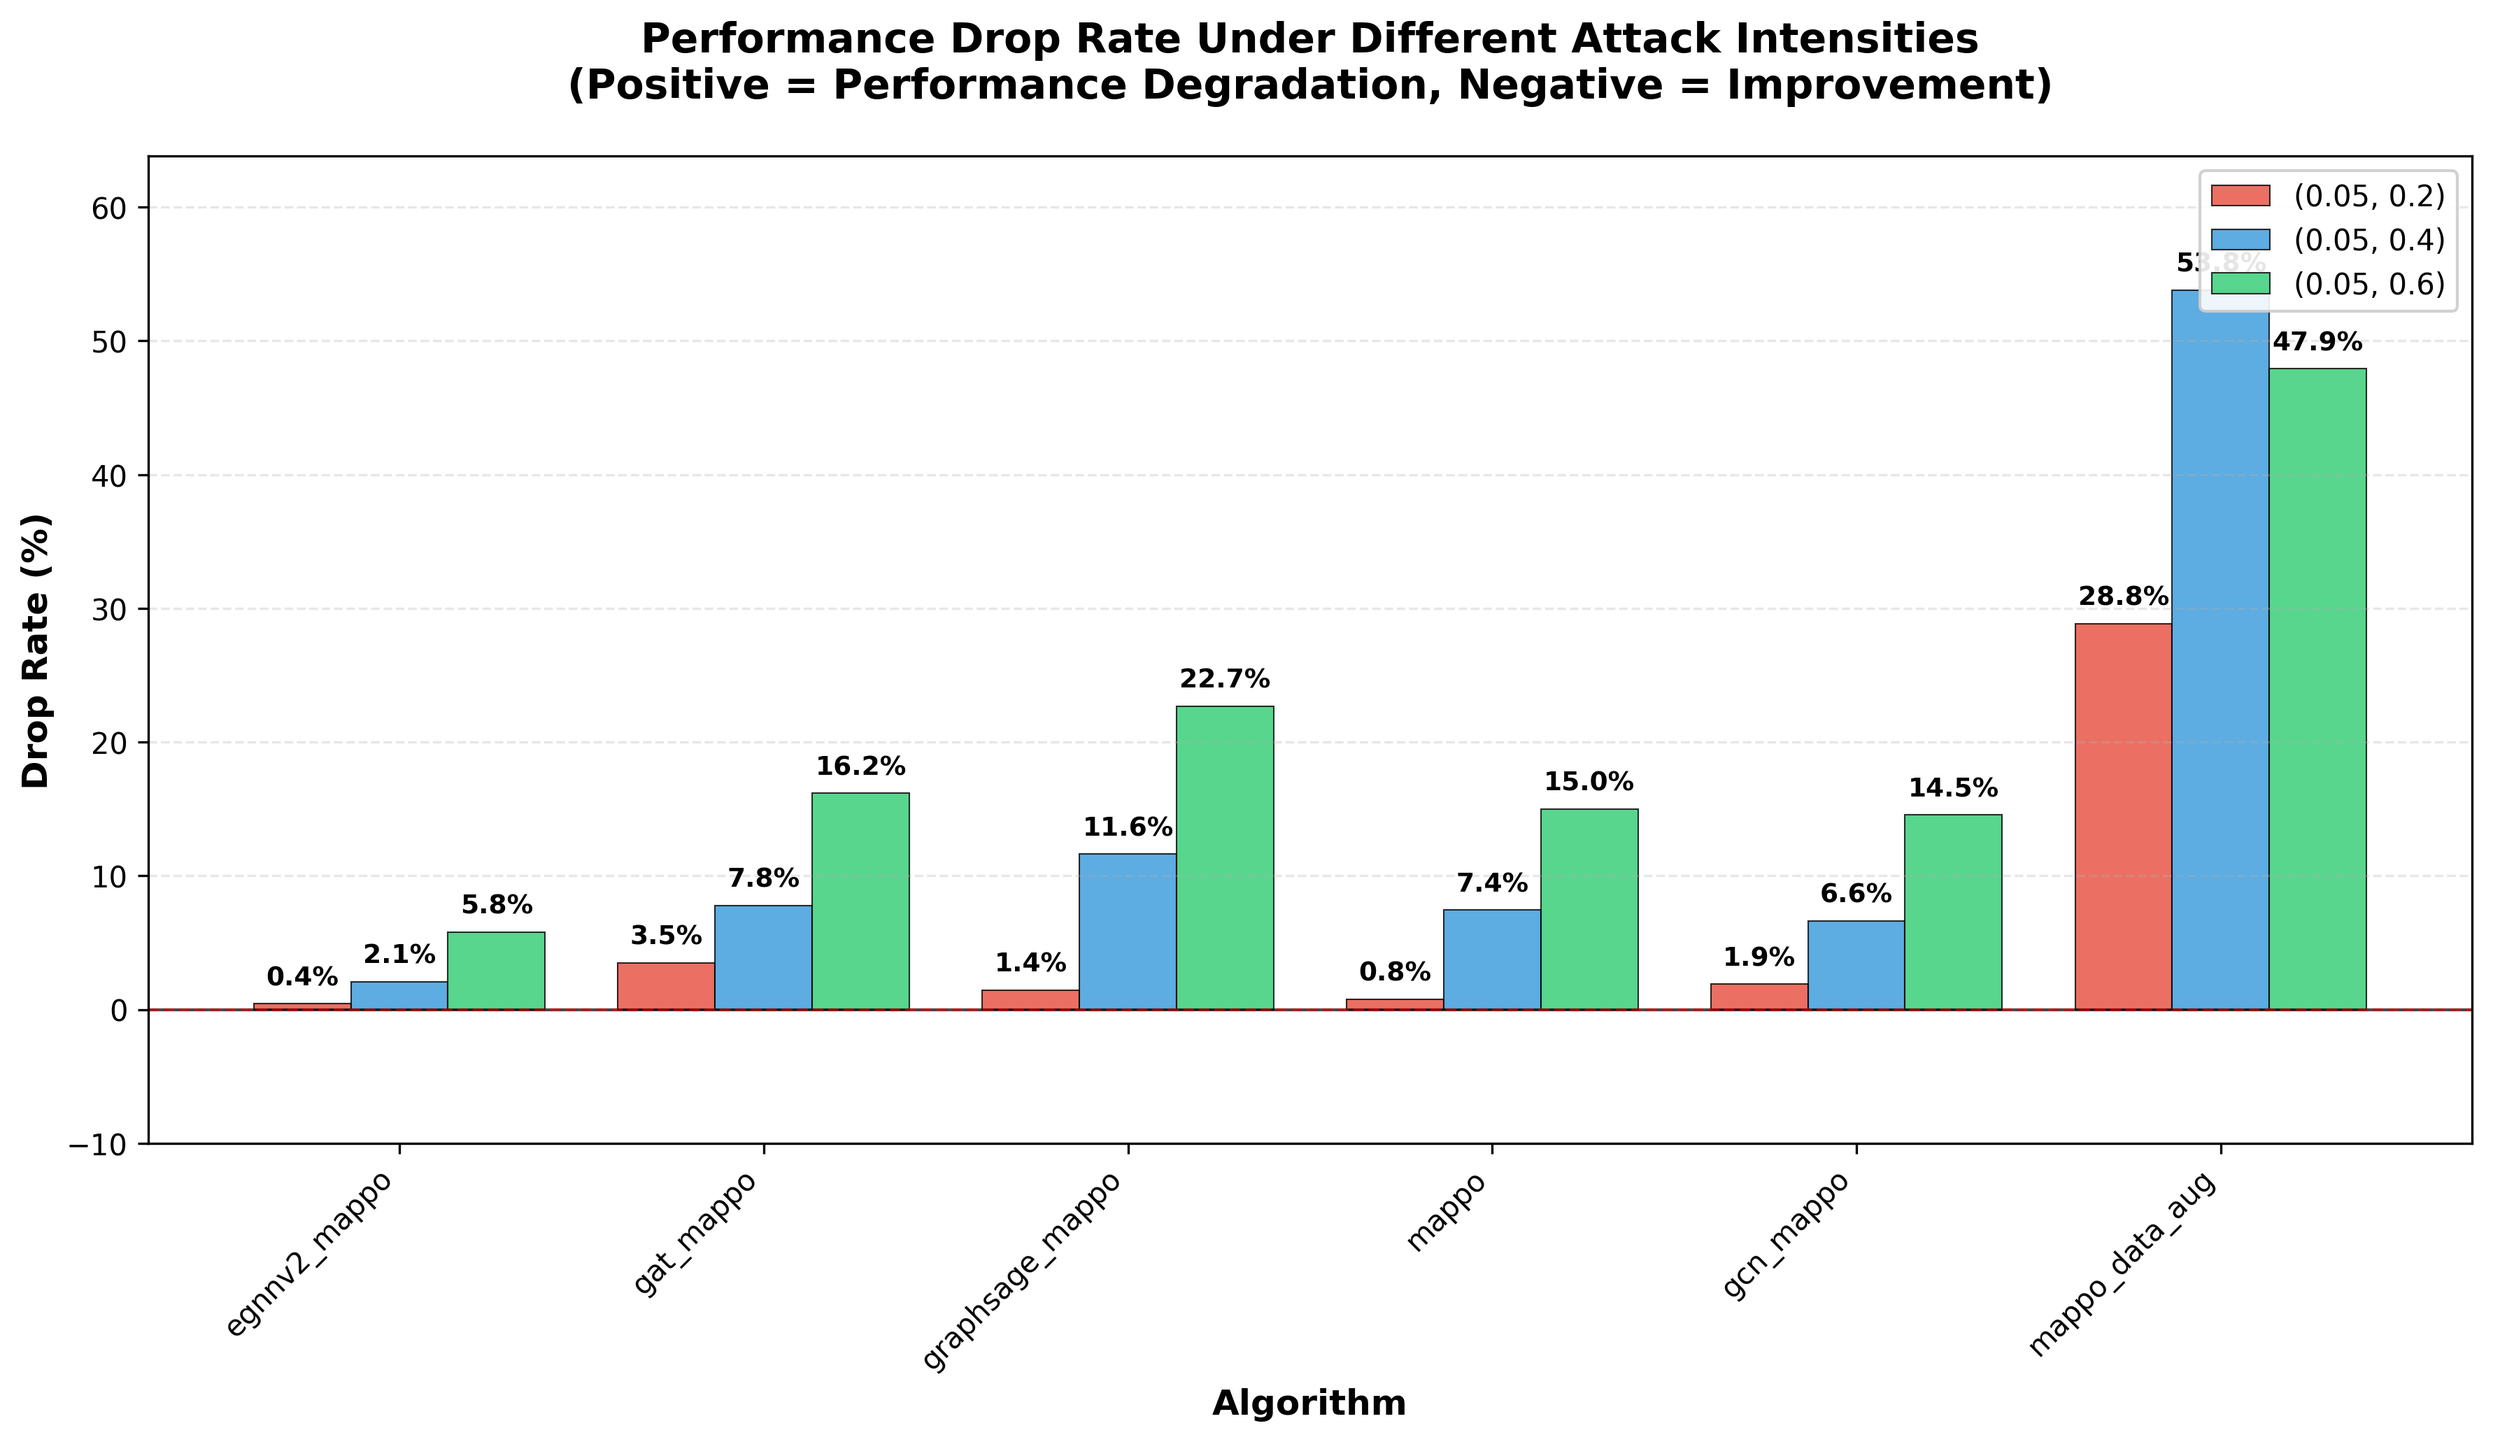
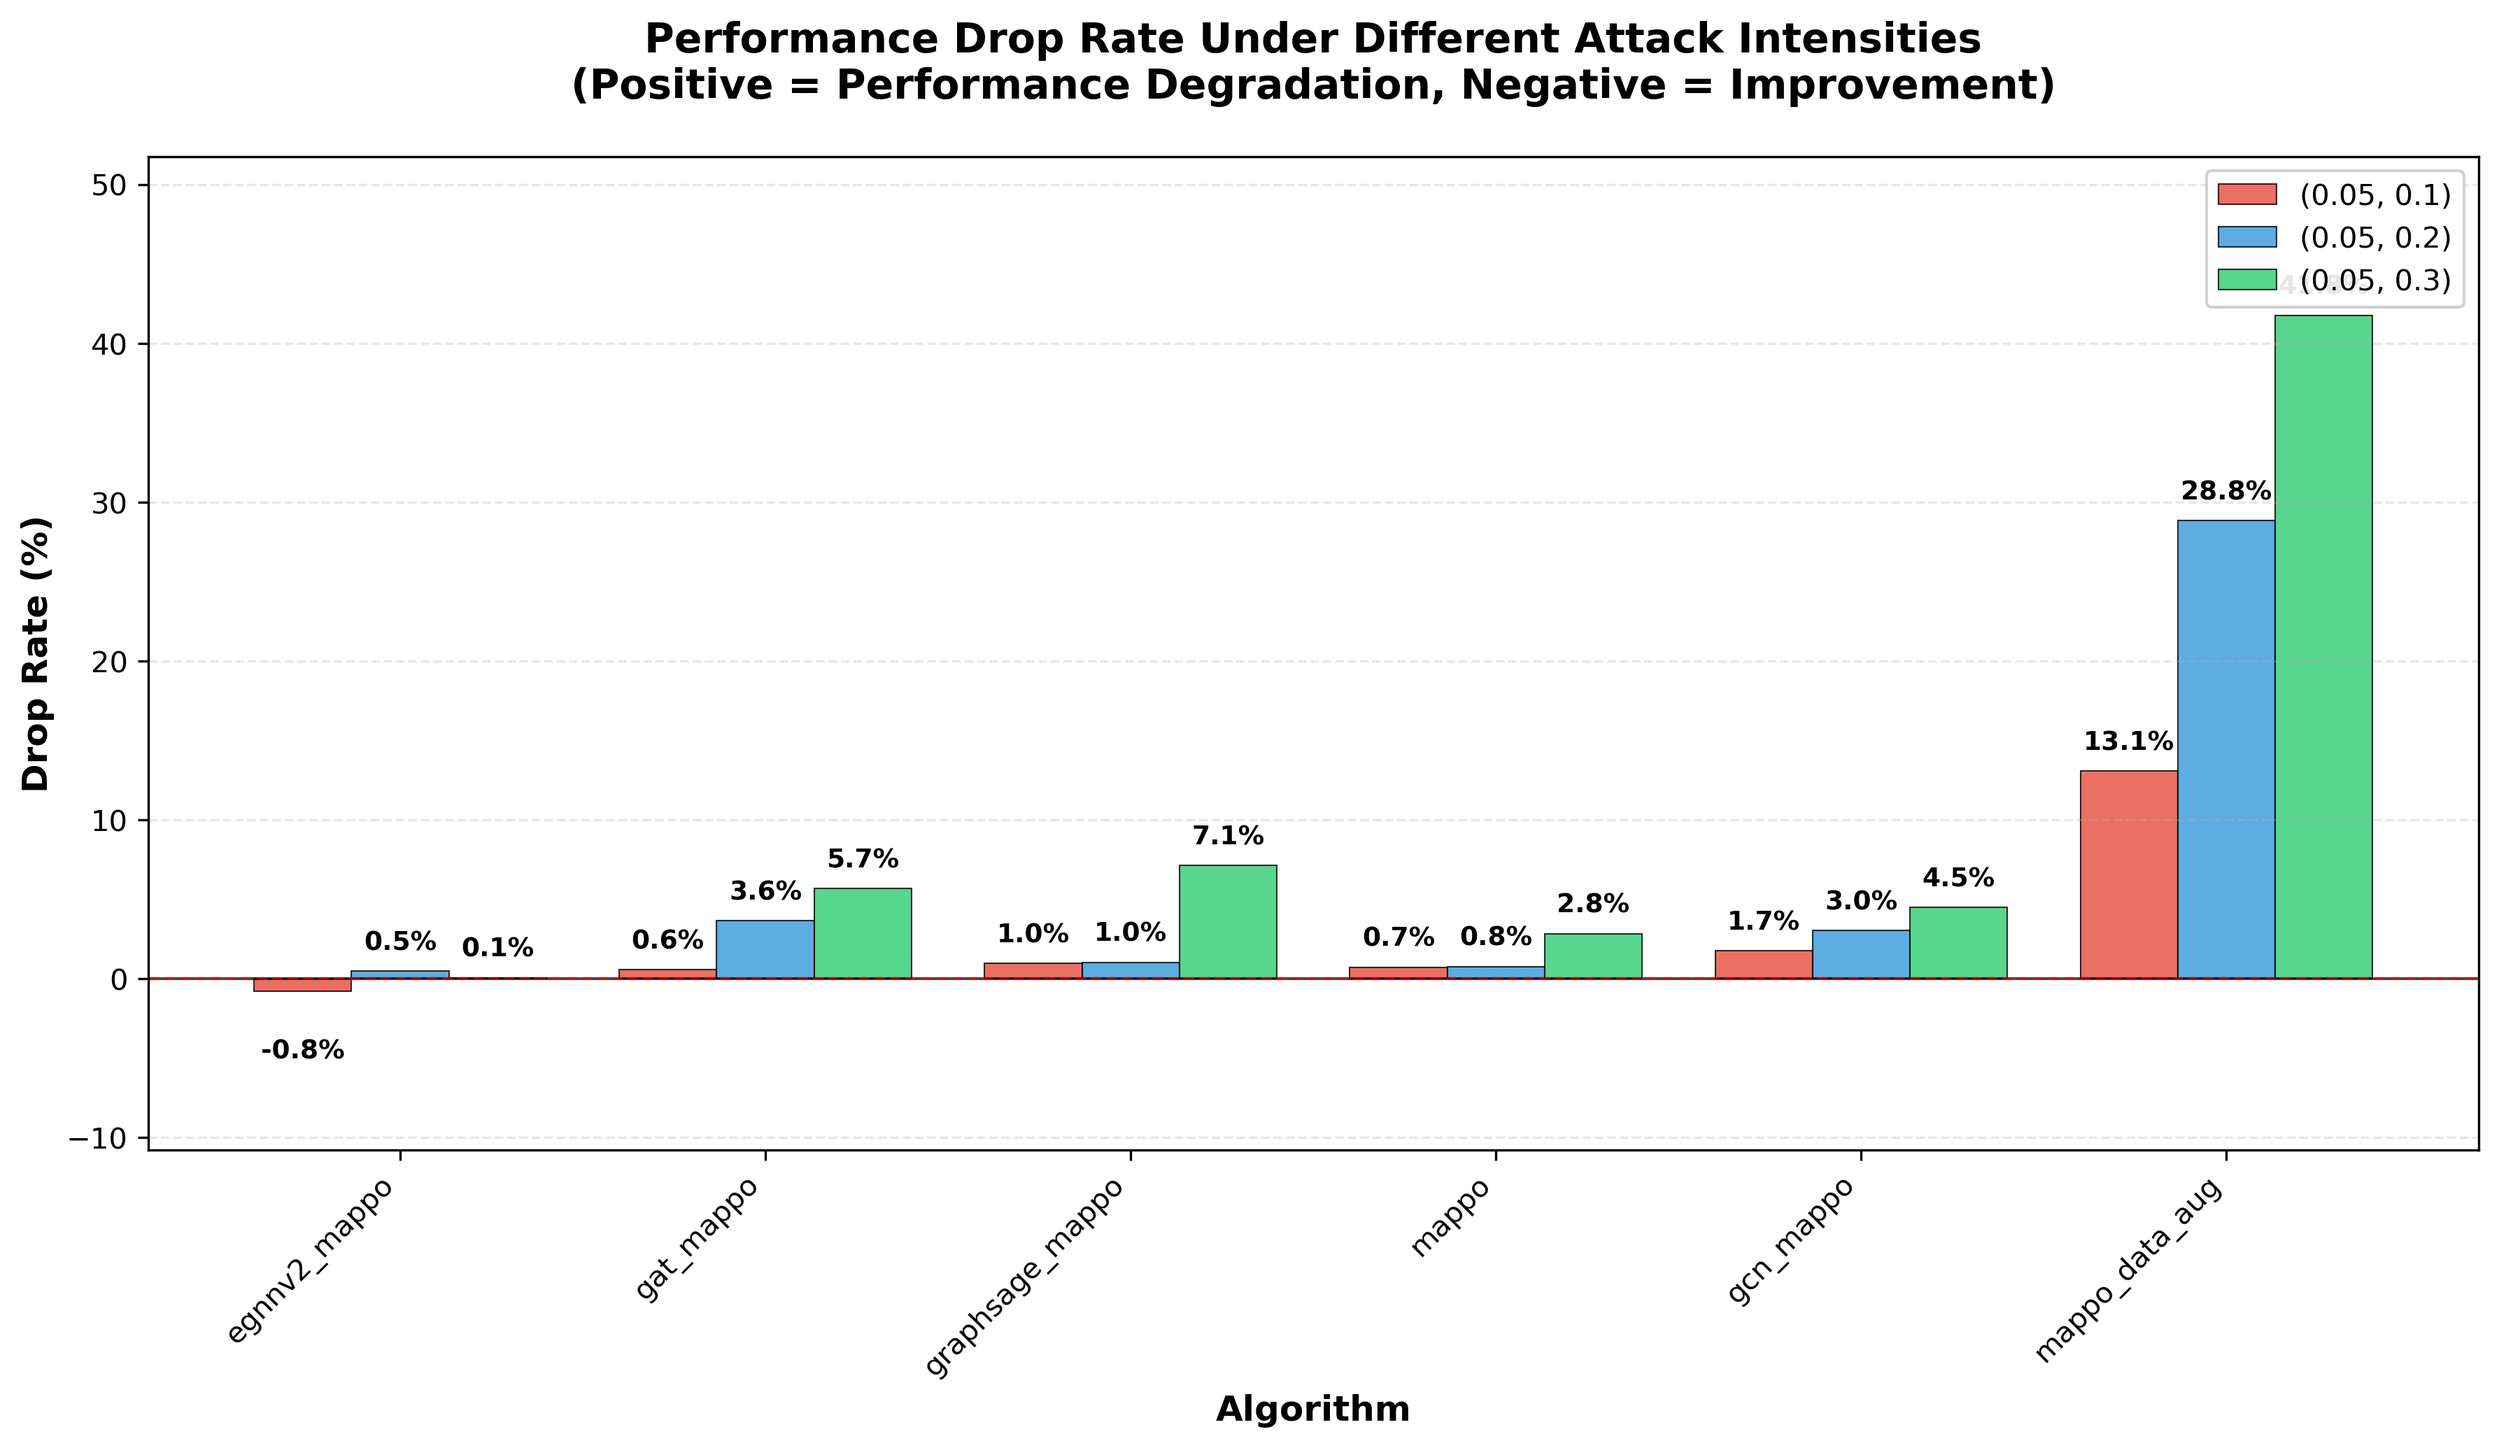
0527

diff --git a/attack实验数据/3-不变型观测噪声干扰/pursuit_v0510/performance_report.html b/attack实验数据/3-不变型观测噪声干扰/pursuit_v0510/performance_report.html
@@ -89,7 +89,7 @@
                 <thead>
                     <tr>
                         <th>算法</th>
-    <th colspan='2'>(0.0, 0.0)</th><th colspan='2'>(0.05, 0.2)</th><th colspan='2'>(0.05, 0.4)</th><th colspan='2'>(0.05, 0.6)</th></tr><tr><th></th><th>平均奖励</th><th>下降率 (%)</th><th>平均奖励</th><th>下降率 (%)</th><th>平均奖励</th><th>下降率 (%)</th><th>平均奖励</th><th>下降率 (%)</th></tr></thead><tbody><tr><td class='algo-name'>egnnv2_mappo</td><td>-45.56</td><td>-</td><td>-45.75</td><td class='drop-positive'>+0.42%</td><td>-46.51</td><td class='drop-positive'>+2.09%</td><td>-48.20</td><td class='drop-positive'>+5.80%</td></tr><tr><td class='algo-name'>gat_mappo</td><td>-69.47</td><td>-</td><td>-71.91</td><td class='drop-positive'>+3.50%</td><td>-74.87</td><td class='drop-positive'>+7.77%</td><td>-80.71</td><td class='drop-positive'>+16.17%</td></tr><tr><td class='algo-name'>graphsage_mappo</td><td>-55.30</td><td>-</td><td>-56.10</td><td class='drop-positive'>+1.44%</td><td>-61.73</td><td class='drop-positive'>+11.62%</td><td>-67.84</td><td class='drop-positive'>+22.69%</td></tr><tr><td class='algo-name'>mappo</td><td>-59.54</td><td>-</td><td>-59.99</td><td class='drop-positive'>+0.76%</td><td>-63.97</td><td class='drop-positive'>+7.43%</td><td>-68.46</td><td class='drop-positive'>+14.98%</td></tr><tr><td class='algo-name'>gcn_mappo</td><td>-60.79</td><td>-</td><td>-61.94</td><td class='drop-positive'>+1.89%</td><td>-64.82</td><td class='drop-positive'>+6.62%</td><td>-69.64</td><td class='drop-positive'>+14.55%</td></tr><tr><td class='algo-name'>mappo_data_aug</td><td>-62.83</td><td>-</td><td>-80.95</td><td class='drop-positive'>+28.84%</td><td>-96.64</td><td class='drop-positive'>+53.80%</td><td>-92.94</td><td class='drop-positive'>+47.91%</td></tr>
+    <th colspan='2'>(0.0, 0.0)</th><th colspan='2'>(0.05, 0.1)</th><th colspan='2'>(0.05, 0.2)</th><th colspan='2'>(0.05, 0.3)</th></tr><tr><th></th><th>平均奖励</th><th>下降率 (%)</th><th>平均奖励</th><th>下降率 (%)</th><th>平均奖励</th><th>下降率 (%)</th><th>平均奖励</th><th>下降率 (%)</th></tr></thead><tbody><tr><td class='algo-name'>egnnv2_mappo</td><td>-45.55</td><td>-</td><td>-45.19</td><td class='drop-negative'>-0.78%</td><td>-45.76</td><td class='drop-positive'>+0.48%</td><td>-45.57</td><td class='drop-positive'>+0.06%</td></tr><tr><td class='algo-name'>gat_mappo</td><td>-69.43</td><td>-</td><td>-69.82</td><td class='drop-positive'>+0.57%</td><td>-71.96</td><td class='drop-positive'>+3.64%</td><td>-73.36</td><td class='drop-positive'>+5.67%</td></tr><tr><td class='algo-name'>graphsage_mappo</td><td>-55.27</td><td>-</td><td>-55.81</td><td class='drop-positive'>+0.98%</td><td>-55.84</td><td class='drop-positive'>+1.03%</td><td>-59.21</td><td class='drop-positive'>+7.13%</td></tr><tr><td class='algo-name'>mappo</td><td>-59.54</td><td>-</td><td>-59.98</td><td class='drop-positive'>+0.73%</td><td>-59.99</td><td class='drop-positive'>+0.76%</td><td>-61.23</td><td class='drop-positive'>+2.83%</td></tr><tr><td class='algo-name'>gcn_mappo</td><td>-60.34</td><td>-</td><td>-61.39</td><td class='drop-positive'>+1.75%</td><td>-62.17</td><td class='drop-positive'>+3.02%</td><td>-63.04</td><td class='drop-positive'>+4.48%</td></tr><tr><td class='algo-name'>mappo_data_aug</td><td>-62.83</td><td>-</td><td>-71.05</td><td class='drop-positive'>+13.07%</td><td>-80.95</td><td class='drop-positive'>+28.84%</td><td>-89.08</td><td class='drop-positive'>+41.77%</td></tr>
             </tbody>
         </table>
         <div class="caption">

diff --git a/attack实验数据/3-不变型观测噪声干扰/ren_v0527/performance_report.html b/attack实验数据/3-不变型观测噪声干扰/ren_v0527/performance_report.html
@@ -89,7 +89,8 @@
                 <thead>
                     <tr>
                         <th>算法</th>
-    <th colspan='2'>(0.0, 0.0)</th><th colspan='2'>(0.05, 0.1)</th><th colspan='2'>(0.05, 0.2)</th><th colspan='2'>(0.05, 0.3)</th></tr><tr><th></th><th>平均奖励</th><th>下降率 (%)</th><th>平均奖励</th><th>下降率 (%)</th><th>平均奖励</th><th>下降率 (%)</th><th>平均奖励</th><th>下降率 (%)</th></tr></thead><tbody><tr><td class='algo-name'>egnnv2_mappo</td><td>-45.55</td><td>-</td><td>-45.19</td><td class='drop-negative'>-0.78%</td><td>-45.76</td><td class='drop-positive'>+0.48%</td><td>-45.57</td><td class='drop-positive'>+0.06%</td></tr><tr><td class='algo-name'>gat_mappo</td><td>-69.43</td><td>-</td><td>-69.82</td><td class='drop-positive'>+0.57%</td><td>-71.96</td><td class='drop-positive'>+3.64%</td><td>-73.36</td><td class='drop-positive'>+5.67%</td></tr><tr><td class='algo-name'>graphsage_mappo</td><td>-55.27</td><td>-</td><td>-55.81</td><td class='drop-positive'>+0.98%</td><td>-55.84</td><td class='drop-positive'>+1.03%</td><td>-59.21</td><td class='drop-positive'>+7.13%</td></tr><tr><td class='algo-name'>mappo</td><td>-59.54</td><td>-</td><td>-59.98</td><td class='drop-positive'>+0.73%</td><td>-59.99</td><td class='drop-positive'>+0.76%</td><td>-61.23</td><td class='drop-positive'>+2.83%</td></tr><tr><td class='algo-name'>gcn_mappo</td><td>-60.34</td><td>-</td><td>-61.39</td><td class='drop-positive'>+1.75%</td><td>-62.17</td><td class='drop-positive'>+3.02%</td><td>-63.04</td><td class='drop-positive'>+4.48%</td></tr><tr><td class='algo-name'>mappo_data_aug</td><td>-62.83</td><td>-</td><td>-71.05</td><td class='drop-positive'>+13.07%</td><td>-80.95</td><td class='drop-positive'>+28.84%</td><td>-89.08</td><td class='drop-positive'>+41.77%</td></tr>
+    <th colspan='2'>(0.0, 0.0)</th><th colspan='2'>(0.0, 0.1)</th><th colspan='2'>(0.0, 0.2)</th><th colspan='2'>(0.0, 0.3)</th></tr>
+<th></th><th>平均奖励</th><th>下降率 (%)</th><th>平均奖励</th><th>下降率 (%)</th><th>平均奖励</th><th>下降率 (%)</th><th>平均奖励</th><th>下降率 (%)</th></tr></thead><tbody><tr><td class='algo-name'>egnnv2_mappo</td><td>-17.44</td><td>-</td><td>-17.45</td><td class='drop-positive'>+0.05%</td><td>-17.55</td><td class='drop-positive'>+0.65%</td><td>-17.89</td><td class='drop-positive'>+2.62%</td></tr><tr><td class='algo-name'>mappo_data_aug</td><td>-57.84</td><td>-</td><td>-59.49</td><td class='drop-positive'>+2.85%</td><td>-58.30</td><td class='drop-positive'>+0.79%</td><td>-56.24</td><td class='drop-negative'>-2.77%</td></tr><tr><td class='algo-name'>mappo</td><td>-43.22</td><td>-</td><td>-43.47</td><td class='drop-positive'>+0.57%</td><td>-43.89</td><td class='drop-positive'>+1.55%</td><td>-44.71</td><td class='drop-positive'>+3.43%</td></tr><tr><td class='algo-name'>gcn_mappo</td><td>-34.45</td><td>-</td><td>-34.52</td><td class='drop-positive'>+0.18%</td><td>-34.98</td><td class='drop-positive'>+1.52%</td><td>-35.84</td><td class='drop-positive'>+4.03%</td></tr><tr><td class='algo-name'>gat_mappo</td><td>-44.69</td><td>-</td><td>-44.81</td><td class='drop-positive'>+0.26%</td><td>-45.46</td><td class='drop-positive'>+1.72%</td><td>-46.63</td><td class='drop-positive'>+4.33%</td></tr><tr><td class='algo-name'>graphsage_mappo</td><td>-32.98</td><td>-</td><td>-33.26</td><td class='drop-positive'>+0.84%</td><td>-33.87</td><td class='drop-positive'>+2.69%</td><td>-34.85</td><td class='drop-positive'>+5.67%</td></tr>
             </tbody>
         </table>
         <div class="caption">

diff --git a/attack实验数据/3-不变型观测噪声干扰/ren_v0527/plot_drop.py b/attack实验数据/3-不变型观测噪声干扰/ren_v0527/plot_drop.py
@@ -132,7 +132,7 @@ def generate_html_table(result_df, algorithms, attack_levels):
     # 添加列标题
     for level in attack_levels:
         html += f"<th colspan='2'>{level}</th>"
-    html += "</tr><tr><th></th>"
+    html += "</tr>\n<th></th>"
     
     for level in attack_levels:
         html += "<th>平均奖励</th><th>下降率 (%)</th>"
@@ -250,8 +250,24 @@ def main():
     data = parse_data('eval_result_ren.txt')
     df = pd.DataFrame(data)
     
-    # 获取所有算法和攻击强度
-    algorithms = df['algorithm'].unique()
+    # 获取所有算法
+    all_algorithms = df['algorithm'].unique().tolist()
+    
+    # 确保 egnnv2_mappo 在第一列
+    target_algo = 'egnnv2_mappo'
+    algorithms = []
+    if target_algo in all_algorithms:
+        algorithms.append(target_algo)
+        # 添加其他算法（排除目标算法）
+        for algo in all_algorithms:
+            if algo != target_algo:
+                algorithms.append(algo)
+    else:
+        # 如果目标算法不存在，使用默认排序
+        algorithms = sorted(all_algorithms)
+        print(f"⚠ 警告: 未找到算法 '{target_algo}'，使用默认排序")
+    
+    # 获取所有攻击强度并排序
     attack_levels = sorted(df['noise_intensity'].unique(), key=lambda x: (x[0], x[1]))
     
     print(f"发现 {len(algorithms)} 个算法: {list(algorithms)}")
@@ -348,7 +364,7 @@ def main():
         f.write(html_table)
     print("\n✅ HTML报告已生成: performance_report.html")
     
-    # 生成Drop Rate柱状图
+    # 生成Drop Rate柱状图（使用排序后的算法列表）
     plot_drop_rates(df, algorithms, attack_levels)
     
     # 打印详细统计信息
